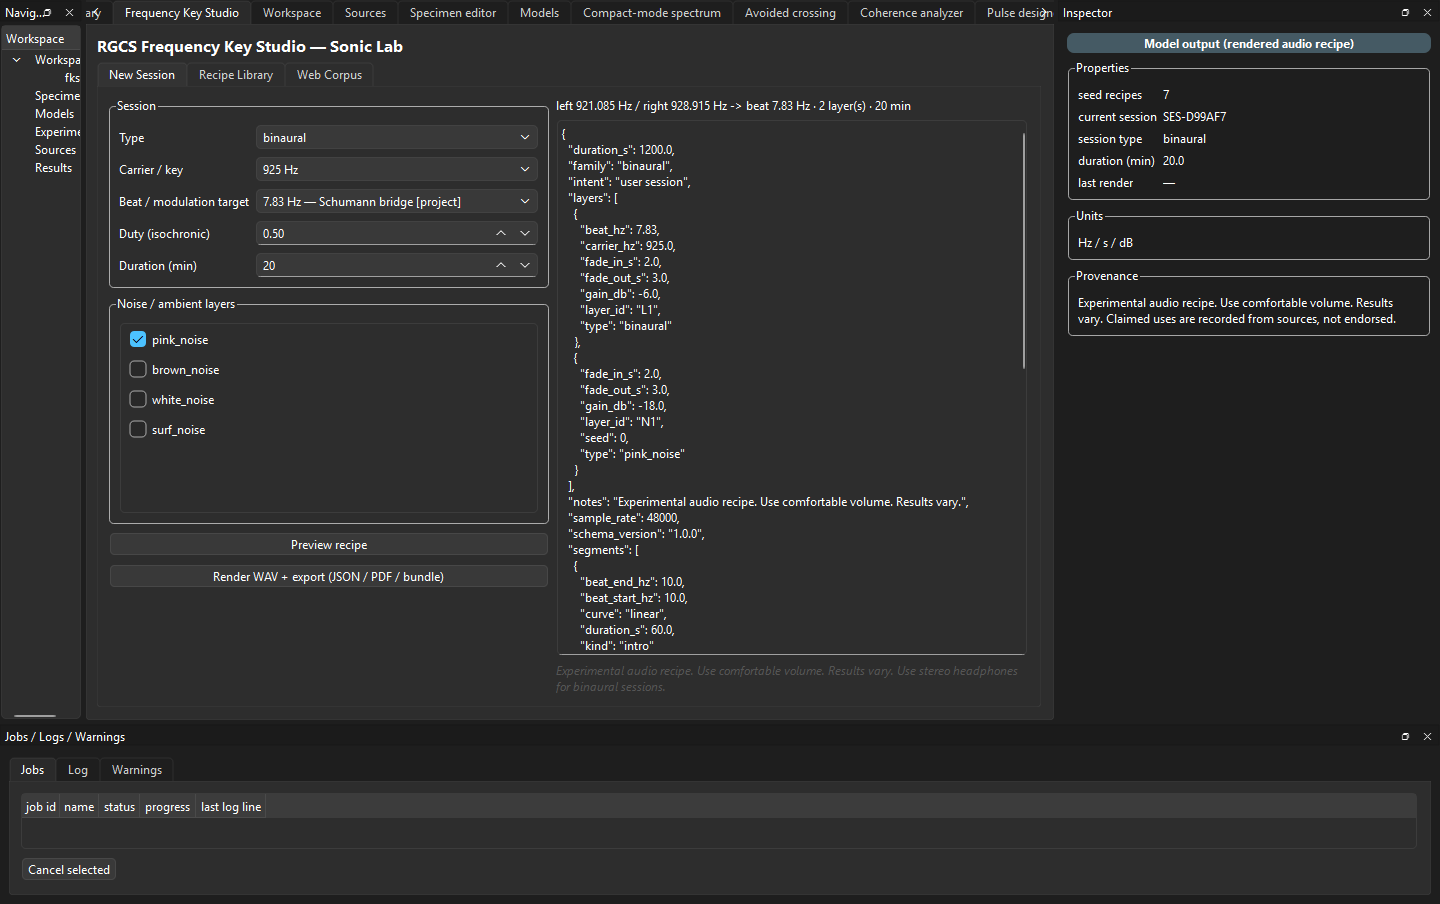
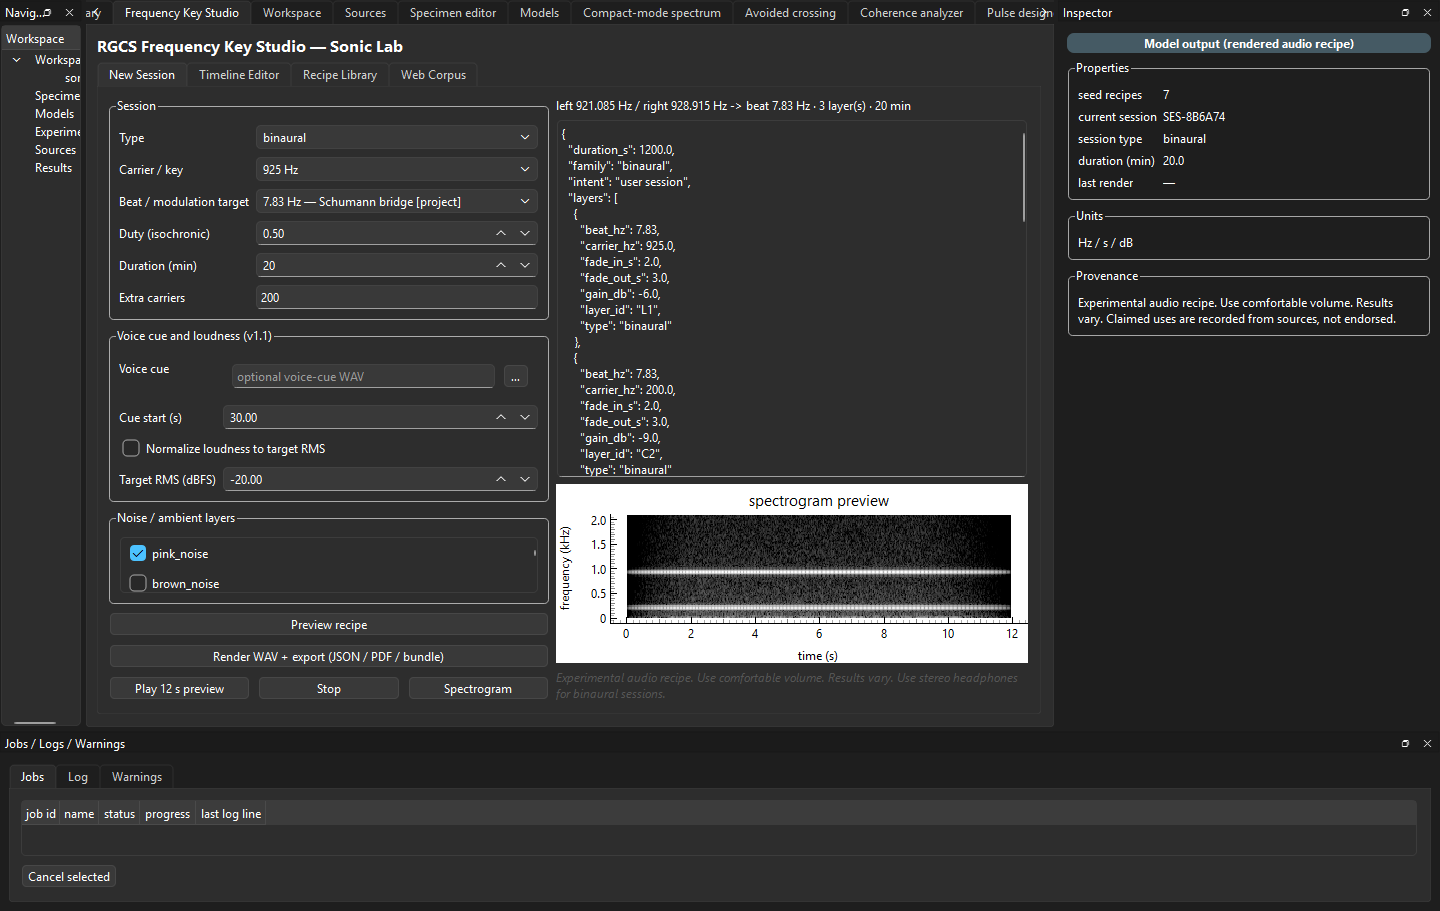
release: v8.5.0 version ritual + updated studio screenshots

diff --git a/tests/v4/test_v4x_release_metadata.py b/tests/v4/test_v4x_release_metadata.py
@@ -35,7 +35,7 @@ def test_every_documented_count_agrees():
 
 
 def test_version_is_consistent_everywhere():
-    ver = "8.4.0"
+    ver = "8.5.0"
     assert f'version = "{ver}"' in (ROOT / "pyproject.toml").read_text(
         encoding="utf-8")
     cff = (ROOT / "CITATION.cff").read_text(encoding="utf-8")

diff --git a/tests/v4/test_v4c_docs_closeout.py b/tests/v4/test_v4c_docs_closeout.py
@@ -90,7 +90,7 @@ def test_no_physical_nonexistence_claims():
         assert "MECHANISM_NOT_IMPLEMENTED_FOR_MATERIAL" in _read(rel)
 
 
-VERSION = "8.4.0"
+VERSION = "8.5.0"
 
 
 def test_version_consistency():

diff --git a/CHANGELOG.md b/CHANGELOG.md
@@ -3,6 +3,41 @@
 All notable changes to RGCS / RSCS. Semantic versioning; the frozen
 v2.0.0 baseline is tag `v2.0.0` and `archive/v2.0.0/`.
 
+## [8.5.0] - 2026-08-07
+
+**RGCS Frequency Key Studio / Sonic Lab** (tag `v8.5.0`). Design
+Studio gains a full audio creation and recipe system — an independent
+engine (no Hemi-Sync recordings, tape structures, narration, or
+branding; no audio downloader, enforced by test).
+
+- Audio engine (numpy + stdlib wave, no new dependencies): binaural
+  (102 Hz carrier / 4 Hz beat → the 100/104 patent example), monaural,
+  isochronic with click-free gating, seeded white/pink/brown/surf
+  noise, constant-power pan, a mixer that never clips (normalizes
+  above 0.95 peak and records it), 48 kHz 16-bit PCM WAV export.
+- Timeline engine: 8 segment kinds, 4 ramp curves, phase-integrated
+  beat ramps; standard session shape (fade/settle/ramp/hold/return).
+- 7 seed recipes + 11 beat targets as packaged data; recipe → session
+  conversion; search by text/frequency/family.
+- Exports: schema-valid render receipts, session PDF sheet with
+  receipt hash, deterministic recipe JSON, YouTube metadata sheet,
+  checksummed bundle zip; `rgcs-sonic` CLI (list/beats/render/batch).
+- v1.1: live preview playback (QtMultimedia, optional backend, stated
+  degradation), STFT spectrogram preview, Timeline Editor page,
+  voice-cue/music-bed WAV import with start offsets, multi-carrier
+  stacks, RMS loudness normalization (peak-capped, recorded), batch
+  render with manifest.
+- v1.2: metadata-only web/video ingest (frequency extraction with
+  roles, claimed-use taxonomy on word boundaries), corpus store
+  (URL-deduped JSON + CSV export), duplicate clustering, deterministic
+  recipe recommendation with reasons.
+- Four new JSON schemas (audio_layer, frequency_session,
+  render_receipt, source_recipe) in the shared registry.
+- Docs: 5 user + 2 developer docs, README row, index links.
+- Every session export carries: "Experimental audio recipe. Use
+  comfortable volume. Results vary." Claimed uses are recorded from
+  sources, not endorsed.
+
 ## [8.4.0] - 2026-08-07
 
 **RGCS Design Studio v1** (tag `v8.4.0`). The desktop workbench gains a

diff --git a/README.md b/README.md
@@ -308,11 +308,11 @@ environment-dependent test in the repository.
 ## Release status
 
 ```text
-current release:   v8.4.0 — RGCS Design Studio v1
+current release:   v8.5.0 — Frequency Key Studio (Sonic Lab)
 workbench RCs:     workbench-v1.0.0-rc1 / -rc2 (pre-releases, shipped)
 ```
 
-Current release: [v8.4.0](https://github.com/andrew867/rgcs/releases/tag/v8.4.0).
+Current release: [v8.5.0](https://github.com/andrew867/rgcs/releases/tag/v8.5.0).
 Frozen history — v2.0.0 (`archive/v2.0.0/`), v3.0.x, v4.0.0, v4.1.x — tags and records
 are never modified. The DOI badge is the latest **minted** DOI (v3.0.1).
 
